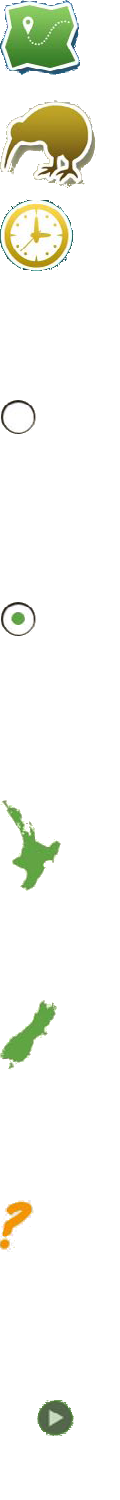
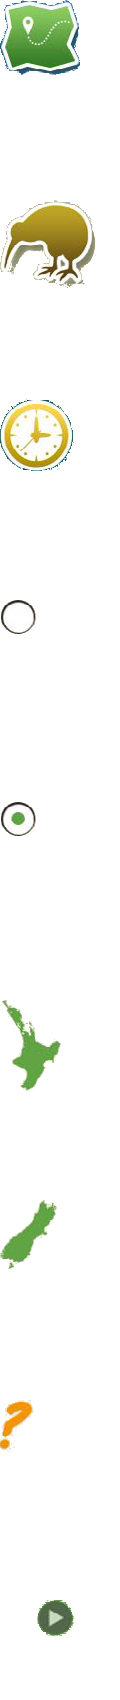
Automated commit

diff --git a/css/find-an-adventure.less b/css/find-an-adventure.less
@@ -10,7 +10,6 @@
   box-shadow:         3px 3px @radius @color;
 }
 
-
 body.find-an-adventure {
     background: #e5dfbd;
     color: #131009;
@@ -77,7 +76,7 @@ body.find-an-adventure {
                 font-weight:bold;
                 .drop-shadow();
                 background-image: url("../img/find-an-adventure-icons.png");
-                background-size: 60px 750px;
+                background-size: 60px 850px;
                 background-repeat: no-repeat;
                 text-decoration:none;
 
@@ -100,7 +99,8 @@ body.find-an-adventure {
             .horizontal-gradient(#747249, #b8b592);
 
             a {
-                background-position: right -45px;
+                background-position: right -97px;
+                padding-right:50px;
             }
         }
 
@@ -109,7 +109,7 @@ body.find-an-adventure {
 
             a {
                 padding-left:80px;
-                background-position: 30px -94px;
+                background-position: 30px -194px;
             }
         }
 
@@ -155,20 +155,20 @@ body.find-an-adventure {
             li {
                 border-top: solid 2px #bebbaa;
                 background-image: url("../img/find-an-adventure-icons.png");
-                background-size: 60px 750px;
+                background-size: 60px 850px;
                 background-repeat: no-repeat;
-                background-position: 20px -184px;
+                background-position: 20px -284px;
 
                 &.active {
-                    background-position: 20px -285px;
+                    background-position: 20px -385px;
                 }
 
                 &#where-northisland {
                     a {
                         background-image: url("../img/find-an-adventure-icons.png");
-                        background-size: 60px 750px;
+                        background-size: 60px 850px;
                         background-repeat: no-repeat;
-                        background-position: 50px -400px;
+                        background-position: 50px -500px;
                         padding-left:100px;
                     }
                 }
@@ -176,9 +176,9 @@ body.find-an-adventure {
                 &#where-southisland {
                     a {
                         background-image: url("../img/find-an-adventure-icons.png");
-                        background-size: 60px 750px;
+                        background-size: 60px 850px;
                         background-repeat: no-repeat;
-                        background-position: 50px -495px;
+                        background-position: 50px -595px;
                         padding-left:100px;
                     }
                 }
@@ -186,9 +186,9 @@ body.find-an-adventure {
                 &#where-surpriseme {
                     a {
                         background-image: url("../img/find-an-adventure-icons.png");
-                        background-size: 60px 750px;
+                        background-size: 60px 850px;
                         background-repeat: no-repeat;
-                        background-position: 50px -590px;
+                        background-position: 50px -690px;
                         padding-left:100px;
                     }
                 }

diff --git a/bin/build-html.js b/bin/build-html.js
@@ -685,7 +685,7 @@ function process_page(htmlf_path, page_title, mustache_data, page_id){
         }
     }
 
-    page_title = page_title || htmlf_path;
+    page_title = page_title || path.basename(htmlf_path);
 
     switch(htmlf_path_extension){
         case "html":

diff --git a/css/maps.less b/css/maps.less
@@ -12,12 +12,8 @@
 
 body.maps {
     .radial-gradient(#eaf6fc, #79ccec);
-
     min-height:100%;
     height:100%;
-
-    
-
 
     #wrapper {
         .radial-gradient(#eaf6fc, #79ccec);

diff --git a/css/custom.less b/css/custom.less
@@ -30,6 +30,8 @@ label {
 
 @import url("bootstrap-popovers.less");
 
+@import url("bootstrap-modal.less");
+
 @import url("slideout-navigation.less");
 
 @import url("content.less");

diff --git a/css/content.less b/css/content.less
@@ -2,7 +2,7 @@
 	width:70%;
 	max-width:654px;
 	min-width:250px;
-	margin: 100px auto 0px auto;
+	margin: 0px auto 0px auto;
 	color:#333333;
 
 	h1 {

diff --git a/css/bootstrap-modal.less b/css/bootstrap-modal.less
@@ -1,0 +1,7 @@
+.modal,
+.modal.fade,
+.modal.fade.in {
+    position:fixed;
+    top: 10px;
+    left: 50%;
+}
